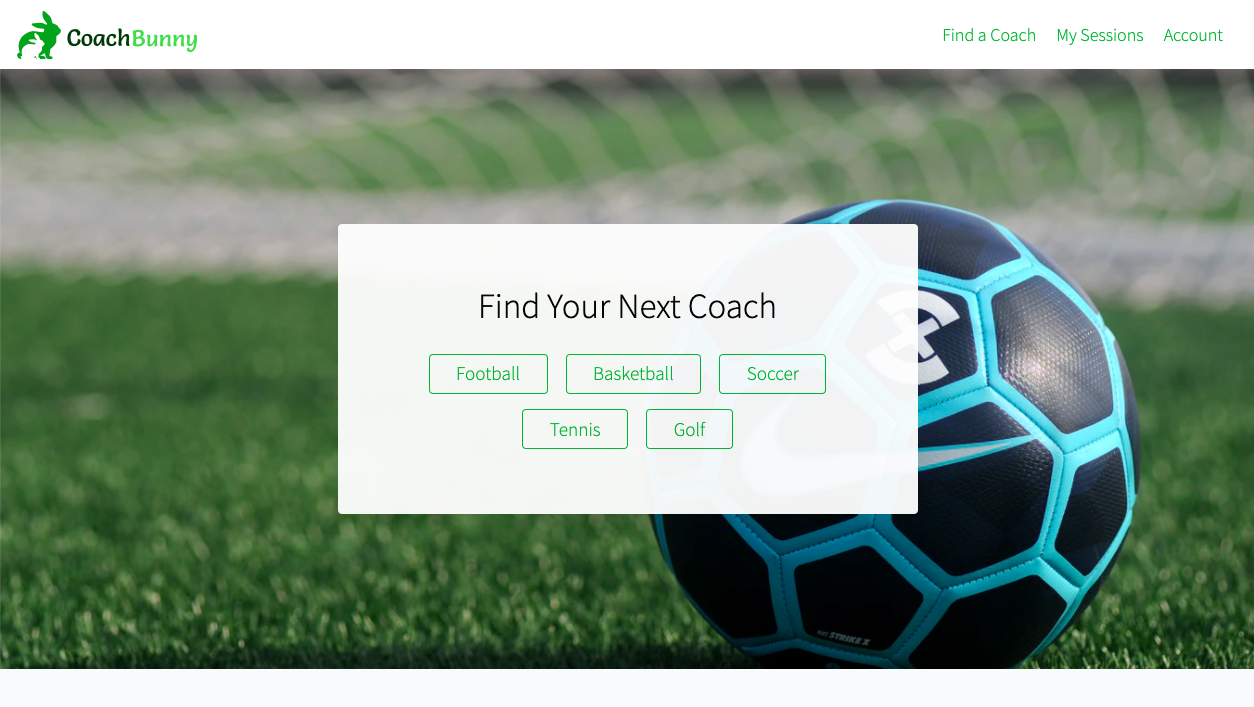
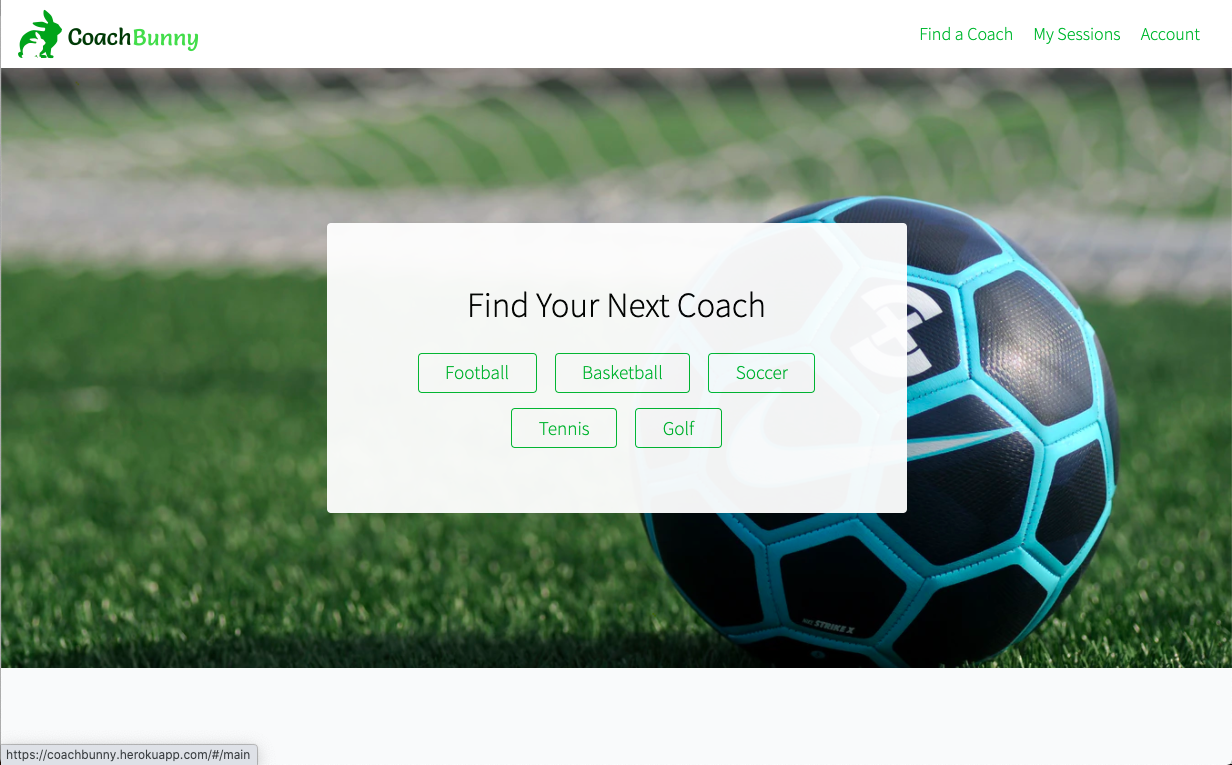
Update about me and projects

diff --git a/index.html b/index.html
@@ -27,22 +27,20 @@
 						Software Engineer<br />
 					</h3>
 					<ul class="icons">
-						<li><a href="https://www.linkedin.com/in/jamesjiang13/" class="icon brands alt fa-linkedin-in"></a></li>
-						<li><a href="https://github.com/jamesjiang13" class="icon brands alt fa-github"></a></li>
-						<li><a href="mailto:james.jiang13@gmail.com" class="icon solid alt fa-envelope"></a></li>
-						<li><a href="https://www.jamesxtheworld.com/" class="icon solid alt fas fa-camera"></a></li>
+						<li><a target="_blank" href="https://www.linkedin.com/in/jamesjiang13/" class="icon brands alt fa-linkedin-in"></a></li>
+						<li><a target="_blank" href="https://github.com/jamesjiang13" class="icon brands alt fa-github"></a></li>
+						<li><a target="_blank" href="mailto:james.jiang13@gmail.com" class="icon solid alt fa-envelope"></a></li>
+						<li><a target="_blank" href="https://www.jamesxtheworld.com/" class="icon solid alt fas fa-camera"></a></li>
 					</ul>
-					<a href='https://drive.google.com/file/d/1kPu45tfcswWQHFXNt_tO8fsCMr2-wI7y/view?usp=sharing' target="_blank" class='button wide primary'>Resume</a>
+					<a target="_blank" href='https://drive.google.com/file/d/1kPu45tfcswWQHFXNt_tO8fsCMr2-wI7y/view?usp=sharing' class='button wide primary'>Resume</a>
 					<ul class="actions special">
 						<li><a href="#about" class="button scrolly">Learn more</a></li>
-						<!-- <li><a href="#skills" class="button scrolly">Skills</a></li>
-						<li><a href="#projects" class="button scrolly">Projects</a></li> -->
 					</ul>
 				</div>
 			</section>
 
 		<!-- One -->
-			<section id="about" class="main style1">
+			<section id="about" class="main style1 aboutme">
 				<div class="container">
 					<div class="row gtr-150 about-me">
 						<div class="col-6 col-12-medium about-me-div">
@@ -50,10 +48,12 @@
 								<h2>About me</h2>
 							</header>
 							<p>
-								I am a software engineer with experience in Javascript, React, Redux, Node.js, Express, Ruby, Ruby on Rails, PostgresQL, 
+								I am a software engineer with experience in Javascript, React, Redux, Node.js, Express, Ruby, Ruby on Rails, PostgreSQL, 
 								MongoDB, and D3.js. While on a thought-provoking and reflective trip around the world, I saw that my passion was in helping 
-								people through technology. I find my joy in building expressive, engaging, and socially responsible applications to address 
-								the problems of the future.
+								people through technology. I latched on to this passion and upon my return, immediately worked to sharpen my skills 
+								as a full stack web developer. I find my joy in building expressive, engaging, and socially responsible applications to address 
+								the problems of the future; I look forward to expanding my skillset by working at a company and helping to build 
+								a product that I believe in.
 							</p>
 							<p>
 								In my spare time, I enjoy culturally immersive traveling to expand my understanding of the world. I also love trekking
@@ -69,6 +69,45 @@
 			</section>
 
 		<!-- Two -->
+			<section id="projects" class="main style1 special projects">
+				<div class="container">
+					<header class="major">
+						<h2>Projects</h2>
+					</header>
+					<!-- <p>A curated selection of my projects</p> -->
+					<div class="row gtr-150">
+						<div class="col-4 col-12-medium">
+							<span class="image fit"><img src="images/coachbunny.png" alt="coachbunny" /></span>
+							<h3>CoachBunny</h3>
+							<p>A sports-themed SPA inspired by TaskRabbit UI/UX, connecting motivated athletes to local coaches. Built with Ruby on Rails, React.js, Redux.js, PostgreSQL</p>
+							<ul class="actions special">
+								<li><a href="http://coachbunny.herokuapp.com/" class="button">Live</a></li>
+								<li><a target="_blank" href="https://github.com/jamesjiang13/CoachBunny" class="button">Github</a></li>
+							</ul>
+						</div>
+						<div class="col-4 col-12-medium">
+							<span class="image fit"><img src="images/treasure-box.png" alt="treasure-box" /></span>
+							<h3>Treasure Box</h3>
+							<p>A fun media-swapping site built in a collaborative team environment. Built with MongoDB, Mongoose, Express, React.js, Node.js, and AWS S3.</p>
+							<ul class="actions special">
+								<li><a href="generic.html" class="button">Live</a></li>
+								<li><a target="_blank" href="https://github.com/jennhuynh02/treasure-box" class="button">Github</a></li>
+							</ul>
+						</div>
+						<div class="col-4 col-12-medium">
+							<span class="image fit"><img src="images/estadisticas-economicas.png" alt="EEdlM" /></span>
+							<h3>Estadísticas Económicas</h3>
+							<p>An interactive data visualization of socio-economic conditions of women in Latin America. Built with Javascript, HTML5, Axios, D3.js, and The World Bank API</p>
+							<ul class="actions special">
+								<li><a target="_blank" href="https://estadisticas-de-las-mujeres.herokuapp.com/" class="button">Live</a></li>
+								<li><a target="_blank" href="https://github.com/jamesjiang13/Estadisticas-Economicas-de-las-Mujeres" class="button">Github</a></li>
+							</ul>
+						</div>
+					</div>
+				</div>
+			</section>
+
+		<!-- Three -->	
 			<section id="skills" class="main style2">
 				<div class="container">
 					<div class="row gtr-150">
@@ -79,79 +118,70 @@
 						</div>
 						<div class="col-6 col-12-medium">
 							<ul class="major-icons">
-								<li><div><img src='images/skills/js-logo.png' class="icon solid style1 major" /><span>Javascript</span></div></li>
-								<li><div><img src='images/skills/react.png' class="icon solid style1 major " /><span>React</span></div></li>
-								<li><div><img src='images/skills/redux.png' class="icon solid style1 major " /><span>Redux</span></div></li>
-								<li><div><img src='images/skills/node.svg' class="icon solid style1 major " /><span>Node.js</span></div></li>
-								<li><div><img src='images/skills/ruby.png' class="icon solid style1 major " /><span>Ruby</span></div></li>
-								<li><div><img src='images/skills/rails.png' class="icon solid style1 major " /><span>Rails 5</span></div></li>
-								<li><div><img src='images/skills/html5.png' class="icon solid style1 major " /><span>HTML 5</span></div></li>
-								<li><div><img src='images/skills/css3.png' class="icon solid style1 major " /><span>CSS 3</span></div></li>
-								<li><div><img src='images/skills/jquery.png' class="icon solid style1 major " /><span>jQuery</span></div></li>
-								<li><div><img src='images/skills/express.png' class="icon solid style1 major " /><span>Express.js</span></div></li>
-								<li><div><img src='images/skills/postgres.png' class="icon solid style1 major " /><span>PostgreSQL</span></div></li>
-								<li><div><img src='images/skills/mongo.png' class="icon solid style1 major " /><span>MongoDB</span></div></li>
-								<li><div><img src='images/skills/s3.png' class="icon solid style1 major " /><span>AWS S3</span></div></li>
-								<li><div><img src='images/skills/d3.svg' class="icon solid style1 major " /><span>D3.js</span></div></li>
-								<li><div><img src='images/skills/heroku.png' class="icon solid style1 major " /><span>Heroku</span></div></li>
+								<li>
+									<div><img src='images/skills/js-logo.png' class="icon solid style1 major" /><span>Javascript</span></div>
+								</li>
+								<li>
+									<div><img src='images/skills/react.png' class="icon solid style1 major " /><span>React</span></div>
+								</li>
+								<li>
+									<div><img src='images/skills/redux.png' class="icon solid style1 major " /><span>Redux</span></div>
+								</li>
+								<li>
+									<div><img src='images/skills/node.svg' class="icon solid style1 major " /><span>Node.js</span></div>
+								</li>
+								<li>
+									<div><img src='images/skills/ruby.png' class="icon solid style1 major " /><span>Ruby</span></div>
+								</li>
+								<li>
+									<div><img src='images/skills/rails.png' class="icon solid style1 major " /><span>Rails 5</span></div>
+								</li>
+								<li>
+									<div><img src='images/skills/html5.png' class="icon solid style1 major " /><span>HTML 5</span></div>
+								</li>
+								<li>
+									<div><img src='images/skills/css3.png' class="icon solid style1 major " /><span>CSS 3</span></div>
+								</li>
+								<li>
+									<div><img src='images/skills/jquery.png' class="icon solid style1 major " /><span>jQuery</span></div>
+								</li>
+								<li>
+									<div><img src='images/skills/express.png' class="icon solid style1 major " /><span>Express.js</span></div>
+								</li>
+								<li>
+									<div><img src='images/skills/postgres.png' class="icon solid style1 major " /><span>PostgreSQL</span></div>
+								</li>
+								<li>
+									<div><img src='images/skills/mongo.png' class="icon solid style1 major " /><span>MongoDB</span></div>
+								</li>
+								<li>
+									<div><img src='images/skills/s3.png' class="icon solid style1 major " /><span>AWS S3</span></div>
+								</li>
+								<li>
+									<div><img src='images/skills/d3.svg' class="icon solid style1 major " /><span>D3.js</span></div>
+								</li>
+								<li>
+									<div><img src='images/skills/heroku.png' class="icon solid style1 major " /><span>Heroku</span></div>
+								</li>
 								<!-- <li><div><img src='images/skills/mongoose.png' class="icon solid style1 major " /><span></span></div></li> -->
 								<!-- <li><div><img src='images/skills/postman.png' class="icon solid style1 major " /><span></span></div></li> -->
-
+			
 								<!-- <li><span class="icon solid style2 major fa-bolt"></span></li>
-								<li><span class="icon solid style3 major fa-camera-retro"></span></li>
-								<li><span class="icon solid style4 major fa-cog"></span></li>
-								<li><span class="icon solid style5 major fa-desktop"></span></li>
-								<li><span class="icon solid style6 major fa-calendar"></span></li> -->
+											<li><span class="icon solid style3 major fa-camera-retro"></span></li>
+											<li><span class="icon solid style4 major fa-cog"></span></li>
+											<li><span class="icon solid style5 major fa-desktop"></span></li>
+											<li><span class="icon solid style6 major fa-calendar"></span></li> -->
 							</ul>
 						</div>
 						<!-- <div class="col-6 col-12-medium">
-							<header class="major">
-								<h2>Lorem ipsum dolor adipiscing<br />
-								amet dolor consequat</h2>
-							</header>
-							<p>Adipiscing a commodo ante nunc accumsan interdum mi ante adipiscing. A nunc lobortis non nisl amet vis volutpat aclacus nascetur ac non. Lorem curae eu ante amet sapien in tempus ac. Adipiscing id accumsan adipiscing ipsum.</p>
-							<p>Blandit faucibus proin. Ac aliquam integer adipiscing enim non praesent vis commodo nunc phasellus cubilia ac risus accumsan. Accumsan blandit. Lobortis phasellus non lobortis dit varius mi varius accumsan lobortis. Blandit ante aliquam lacinia lorem lobortis semper morbi col faucibus vitae integer placerat accumsan orci eu mi odio tempus adipiscing adipiscing adipiscing curae consequat feugiat etiam dolore.</p>
-							<p>Adipiscing a commodo ante nunc accumsan interdum mi ante adipiscing. A nunc lobortis non nisl amet vis volutpat aclacus nascetur ac non. Lorem curae eu ante amet sapien in tempus ac. Adipiscing id accumsan adipiscing ipsum.</p>
-						</div> -->
-					</div>
-				</div>
-			</section>
-
-		<!-- Three -->
-			<section id="projects" class="main style1 special">
-				<div class="container">
-					<header class="major">
-						<h2>Projects</h2>
-					</header>
-					<p>A curated selection of my projects</p>
-					<div class="row gtr-150">
-						<div class="col-4 col-12-medium">
-							<span class="image fit"><img src="images/coachbunny.png" alt="coachbunny" /></span>
-							<h3>CoachBunny</h3>
-							<p>A sports-themed SPA inspired by TaskRabbit UI/UX, connecting motivated athletes to local coaches. Built with Ruby on Rails, React.js, Redux.js, PostgreSQL</p>
-							<ul class="actions special">
-								<li><a href="http://coachbunny.herokuapp.com/" class="button">Live</a></li>
-								<li><a href="https://github.com/jamesjiang13/CoachBunny" class="button">Github</a></li>
-							</ul>
-						</div>
-						<div class="col-4 col-12-medium">
-							<span class="image fit"><img src="images/pic03.jpg" alt="treasure-box" /></span>
-							<h3>Treasure Box</h3>
-							<p>A fun media-swapping site built in a collaborative team environment. Built with MongoDB, Mongoose, Express, React.js, Node.js, and AWS S3.</p>
-							<ul class="actions special">
-								<li><a href="generic.html" class="button">Live</a></li>
-								<li><a href="https://github.com/jennhuynh02/treasure-box" class="button">Github</a></li>
-							</ul>
-						</div>
-						<div class="col-4 col-12-medium">
-							<span class="image fit"><img src="images/estadisticas-economicas.png" alt="EEdlM" /></span>
-							<h3>Estadísticas Económicas</h3>
-							<p>An interactive data visualization of socio-economic conditions of women in Latin America. Built with Javascript, HTML5, Axios, D3.js, and The World Bank API</p>
-							<ul class="actions special">
-								<li><a href="https://estadisticas-de-las-mujeres.herokuapp.com/" class="button">Live</a></li>
-								<li><a href="https://github.com/jamesjiang13/Estadisticas-Economicas-de-las-Mujeres" class="button">Github</a></li>
-							</ul>
-						</div>
+										<header class="major">
+											<h2>Lorem ipsum dolor adipiscing<br />
+											amet dolor consequat</h2>
+										</header>
+										<p>Adipiscing a commodo ante nunc accumsan interdum mi ante adipiscing. A nunc lobortis non nisl amet vis volutpat aclacus nascetur ac non. Lorem curae eu ante amet sapien in tempus ac. Adipiscing id accumsan adipiscing ipsum.</p>
+										<p>Blandit faucibus proin. Ac aliquam integer adipiscing enim non praesent vis commodo nunc phasellus cubilia ac risus accumsan. Accumsan blandit. Lobortis phasellus non lobortis dit varius mi varius accumsan lobortis. Blandit ante aliquam lacinia lorem lobortis semper morbi col faucibus vitae integer placerat accumsan orci eu mi odio tempus adipiscing adipiscing adipiscing curae consequat feugiat etiam dolore.</p>
+										<p>Adipiscing a commodo ante nunc accumsan interdum mi ante adipiscing. A nunc lobortis non nisl amet vis volutpat aclacus nascetur ac non. Lorem curae eu ante amet sapien in tempus ac. Adipiscing id accumsan adipiscing ipsum.</p>
+									</div> -->
 					</div>
 				</div>
 			</section>
@@ -171,7 +201,7 @@
 			</section> -->
 
 		<!-- Five -->
-		<!--
+			<!--
 			<section id="five" class="main style1">
 				<div class="container">
 					<header class="major special">
@@ -486,18 +516,18 @@ print 'It took ' + i + ' iterations to sort the deck.';</code></pre>
 
 				</div>
 			</section>
-		 -->
+		-->
 
 		<!-- Footer -->
 			<section id="footer">
 				<ul class="icons">
-					<li><a href="https://www.linkedin.com/in/jamesjiang13/" class="icon brands alt fa-linkedin-in"><span class="label">Facebook</span></a></li>
-					<li><a href="https://github.com/jamesjiang13" class="icon brands alt fa-github"><span class="label">GitHub</span></a></li>
-					<li><a href="mailto:james.jiang13@gmail.com" class="icon solid alt fa-envelope"><span class="label">Email</span></a></li>
-					<li><a href="https://www.instagram.com/jamesxtheworld/" class="icon brands alt fa-instagram"><span class="label">Instagram</span></a></li>
+					<li><a target="_blank" href="https://www.linkedin.com/in/jamesjiang13/" class="icon brands alt fa-linkedin-in"><span class="label">Facebook</span></a></li>
+					<li><a target="_blank" href="https://github.com/jamesjiang13" class="icon brands alt fa-github"><span class="label">GitHub</span></a></li>
+					<li><a target="_blank" href="mailto:james.jiang13@gmail.com" class="icon solid alt fa-envelope"><span class="label">Email</span></a></li>
+					<li><a target="_blank" href="https://www.instagram.com/jamesxtheworld/" class="icon brands alt fa-instagram"><span class="label">Instagram</span></a></li>
 				</ul>
 				<ul class="copyright">
-					<li>&copy; Untitled</li><li>Design: <a href="http://html5up.net">HTML5 UP</a></li>
+					<li>&copy; Untitled</li><li>Design: <a target="_blank" href="http://html5up.net">HTML5 UP</a></li>
 				</ul>
 			</section>
 

diff --git a/assets/css/main.css b/assets/css/main.css
@@ -134,7 +134,7 @@ input, select, textarea {
 	}
 
 	h1, h2, h3, h4, h5, h6 {
-		color: #555;
+		color: #ffffff;
 		line-height: 1em;
 		margin: 0 0 1em 0;
 	}
@@ -2048,7 +2048,7 @@ input, select, textarea {
 	}
 
 	header.major {
-		margin: 0 0 1em 0;
+		margin: 0 0 2em 0;
 	}
 
 		header.major:after {
@@ -2843,7 +2843,7 @@ input, select, textarea {
 			background-color: #333;
 			color: rgba(255, 255, 255, 0.75);
 			background-attachment: fixed,							fixed;
-			background-image: url("images/overlay1.png"), url("../../images/header.jpg");
+			/* background-image: url("images/overlay1.png"), url("../../images/header.jpg"); */
 			background-size: auto,							cover;
 		}
 
@@ -2996,7 +2996,7 @@ input, select, textarea {
 			#header .button.primary {
 				background-color: #ffffff;
 				box-shadow: inset 0 0 0 1px #ffffff !important;
-				color: #4686a0 !important;
+				color: #404951 !important;
 			}
 
 				#header input[type="submit"].primary:hover,
@@ -3129,13 +3129,19 @@ input, select, textarea {
 
 	#footer {
 		padding: 4em 0;
-		background-color: #4686a0;
-		color: rgba(255, 255, 255, 0.75);
-		background-attachment: fixed,							fixed,							fixed;
-		background-image: url("images/overlay2.png"), url("images/overlay4.svg"), linear-gradient(45deg, #4361c2, #4fa49a 50%, #9dc66b 95%);
-		background-position: top left,						center center,					center center;
-		background-size: auto,							cover,							cover;
+		/* background-color: #4686a0; */
+		/* color: rgba(255, 255, 255, 0.75); */
+		/* background-attachment: fixed,							fixed,							fixed; */
+		/* background-image: url("images/overlay2.png"), url("images/overlay4.svg"), linear-gradient(45deg, #4361c2, #4fa49a 50%, #9dc66b 95%); */
+		/* background-position: top left,						center center,					center center; */
+		/* background-size: auto,							cover,							cover; */
 		text-align: center;
+
+		background-color: #333;
+		color: rgba(255, 255, 255, 0.75);
+		background-attachment: fixed,							fixed;
+		background-image: url("images/overlay1.png"), url("../../images/wood-desk.jpg");
+		background-size: auto,							cover;
 	}
 
 		#footer a {

diff --git a/assets/css/changes.css b/assets/css/changes.css
@@ -42,3 +42,55 @@ header.major {
   flex-direction: column;
   align-items: center;
 }
+
+#about {
+  background-color: #415562;
+  color: white;
+}
+
+#projects {
+  background-color: #404951;
+  color: white;
+}
+
+#skills {
+  background-color: #415562;
+  color: white;
+}
+
+#projects input[type="button"],
+#projects button,
+#projects .button {
+  box-shadow: inset 0 0 0 1px #ffffff;
+  color: #ffffff !important;
+}
+
+#projects input[type="button"]:hover,
+#projects button:hover,
+#projects .button:hover {
+  background-color: rgba(255, 255, 255, 0.125);
+}
+#projects input[type="button"]:active,
+#projects button:active,
+#projects .button:active {
+  background-color: rgba(255, 255, 255, 0.25);
+}
+#projects input[type="button"].primary,
+#projects button.primary,
+#projects .button.primary {
+  background-color: #ffffff;
+  box-shadow: inset 0 0 0 1px #ffffff !important;
+  color: #404951 !important;
+}
+
+#projects input[type="button"].primary:hover,
+#projects button.primary:hover,
+#projects .button.primary:hover {
+  background-color: rgba(255, 255, 255, 0.125) !important;
+  color: #ffffff !important;
+}
+#projects input[type="button"].primary:active,
+#projects button.primary:active,
+#projects .button.primary:active {
+  background-color: rgba(255, 255, 255, 0.25) !important;
+}
